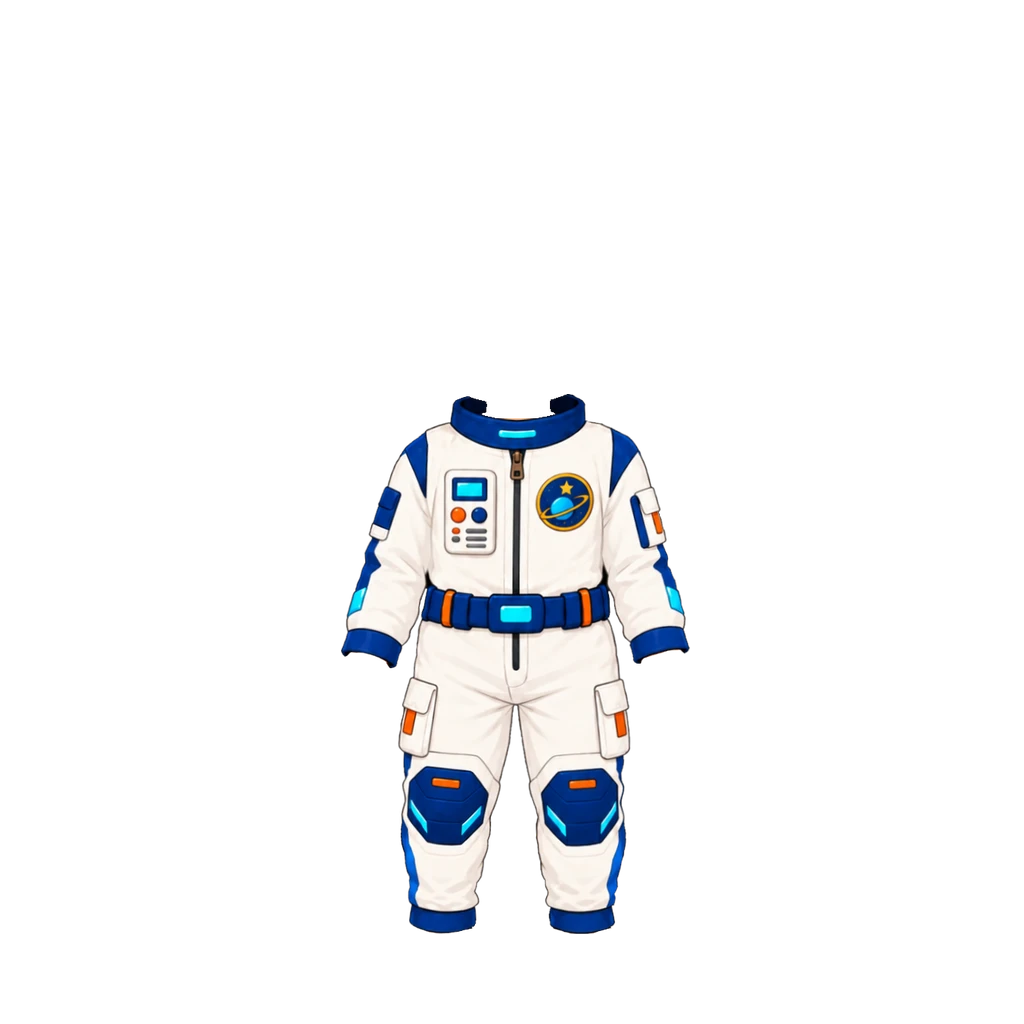
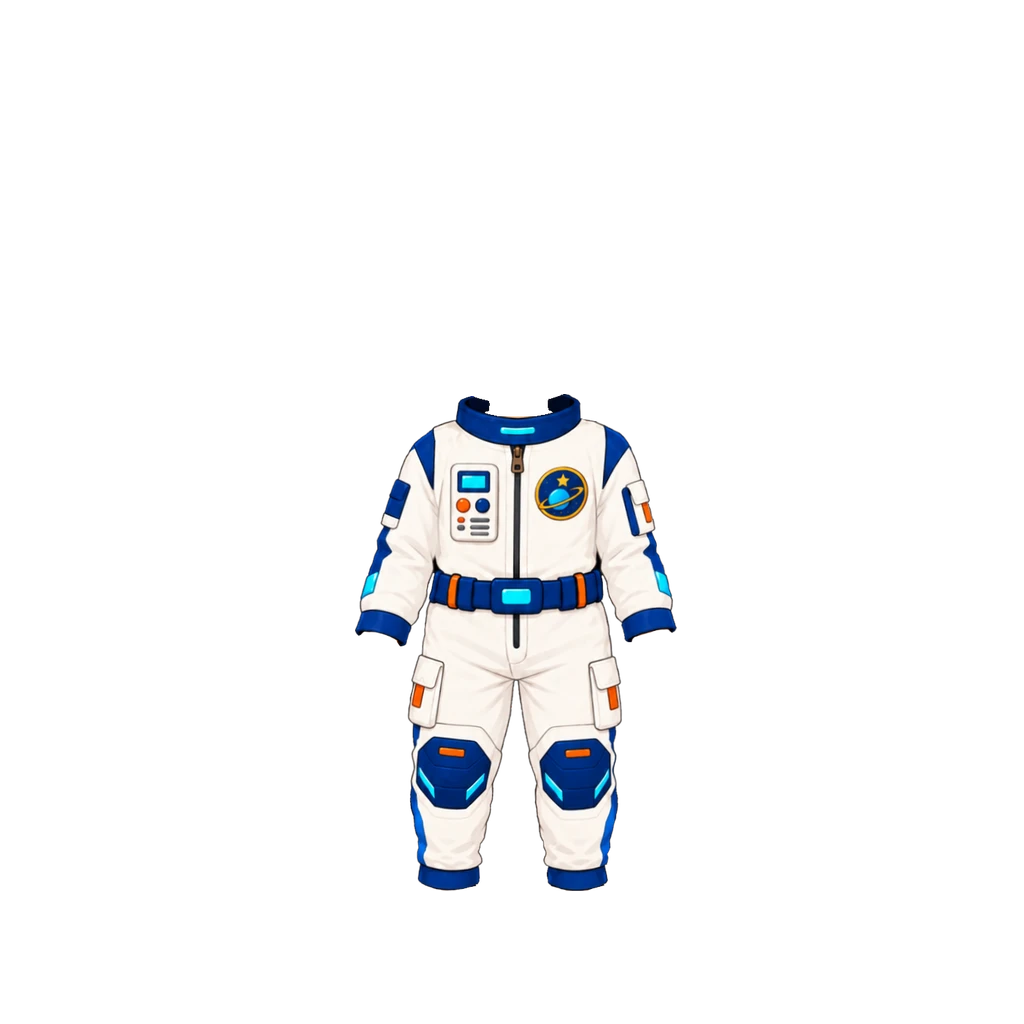
남아 우주복 8% 작게 (#819)
목깃 가운데·위끝을 고정한 채 배율 0.758→0.6974. img ?v=5.

Claude-Session: https://claude.ai/code/session_018maNuYqDfFyRSe9uKpZhPR

Changed region(s): [[0.3125, 0.375, 0.6875, 0.9375]]

diff --git a/src/data/avatarEquipment.js b/src/data/avatarEquipment.js
@@ -286,7 +286,8 @@ export const AVATAR_CATALOG = [
      [2026-10-03] 남아 우주복 새 원화로 교체(같은 디자인, 어깨·소매까지 다 그려진 461×713 한 장, 사용자 원화). 위 탑재값은 옛 판 기록.
      옛 판 자리(배율 0.716 에 상관 0.95 로 겹침)에서는 어깨 위로 베이스 어깨 살·속옷 끈이 비쳐서, 목깃 가운데(원화 x230.5)를 x516 에 두고
      배율 0.758·목깃 위끝 y394(옛 판보다 위로 10)로 올려 어깨를 덮었다. 목깃 안(원화 y0~31, x140~329)의 R≥B 픽셀(턱선·목 살)은 지워
-     베이스 목이 비친다. 바지 끝 y934 — 우주 부츠(z25)의 부츠목을 덮는다. 탑재 상자 (341,394,690,934). img ?v=4. */
+     베이스 목이 비친다. 바지 끝 y934 — 우주 부츠(z25)의 부츠목을 덮는다. 탑재 상자 (341,394,690,934). img ?v=4.
+     [2026-10-03] 사용자 조정 — 8% 작게(배율 0.6974, 목깃 가운데 x516·위끝 y394 고정). 탑재 상자 (355,394,677,891). img ?v=5. */
   /* 해적 옷 — 이 원화도 '옷만 오려 낸 그림'이라 상체를 눈으로 맞췄다(하늘 나들이 옷과 같은 방식).
      긴소매라 소맷부리가 손목에 닿는 배율을 골랐다 — 0.72는 팔뚝이 남고 0.76부터는 손을 덮는다.
      배율 0.74 · 깃 위끝 y372(기본 반팔티 깃과 같은 자리) → 탑재 상자 (350,372)-(674,754). */
@@ -353,7 +354,7 @@ export const AVATAR_CATALOG = [
      배율 0.7104, 목 중심 새 원화 x212.06 → x511.5, 턱 자리 y0 → y356. 목둘레 안(y0~23, x173~255)과 맨 위(y0~5)의 보라 아닌 픽셀을 지웠다.
      옛 판과 겹침 IoU 0.956. 탑재 상자 (361,356,662,887). imgGirl ?v=5.
      [2026-10-03] 사용자 조정 — 왼쪽으로 2(목 중심 x509.5). 탑재 상자 (359,356,660,887). imgGirl ?v=6. */
-  { id: "top_space",      slot: "top",   label: "우주 탐험대",       emoji: "🚀", labelGirl: "별빛 우주인", emojiGirl: "🪐", price:DECOR_PRICE.epic, rarity: "epic", theme: "space",  coversBottom: true, img: "assets/avatar/top/space-suit-boy.webp?v=4", imgGirl: "assets/avatar/top/space-suit-girl.webp?v=6", thumb: "assets/avatar/thumb/top_space.webp?v=4", thumbGirl: "assets/avatar/thumb/top_space-girl.webp?v=5" },
+  { id: "top_space",      slot: "top",   label: "우주 탐험대",       emoji: "🚀", labelGirl: "별빛 우주인", emojiGirl: "🪐", price:DECOR_PRICE.epic, rarity: "epic", theme: "space",  coversBottom: true, img: "assets/avatar/top/space-suit-boy.webp?v=5", imgGirl: "assets/avatar/top/space-suit-girl.webp?v=6", thumb: "assets/avatar/thumb/top_space.webp?v=4", thumbGirl: "assets/avatar/thumb/top_space-girl.webp?v=5" },
 
   /* ── 우주 세트 (남아) — 사용자 원화 2026-09-29 ────────────────────────────
      우주복(top_space)과 같은 원화 세트에서 나온 가방·신발. 둘 다 남아 전용 첫

diff --git a/art-src/README.md b/art-src/README.md
@@ -354,7 +354,7 @@ getBoundingClientRect로 재서 정한다. 2026-08-05 점검에서 이 기준을
 | raincoat-girl-src.webp | **노란 우비 원화 여아 (사용자 원화 2026-10-02)**. 449×443 투명 배경, 노란 우비(흰 둥근 깃·청록 테두리·구름 주머니) + 청록 반바지 한 벌. 위쪽에 목(턱 없음)이 함께 그려져 있다. 원화 목 외곽선 x194.5~258.5(폭 64, 중심 226.5)를 여아 목 중심 x512.5 에, 곧은 목선이 깃 속으로 들어가는 원화 y19 를 여아 y372 에 맞추고 배율 0.69(목 폭이 같아지는 값 — 품이 넓어 수영복은 0.64 부터 다 가려진다, 소매는 손목에서 끝남). 목 살(r−b>70)과 목 옆선은 원화 y6→24 동안 0→1 페이드. 조각 1개, 수영복 비침 0. 탑재 상자 (356,360,666,665) **[2026-10-02 보정]** 사용자 요청으로 반바지만 5퍼센트 키움 — 열마다 노란색 마지막 줄+4 아래(가운데 앞자락 틈 x200~232·y<392 제외)를 반바지로 떼어, 원화 (x221.5, y395) 기준으로 1.05배 키워 원래 반바지 위·우비 아래에 넣었다. 키운 반바지가 원래 반바지 윗선보다 위로 우비 밖에 나오는 부분은 잘랐다. 탑재 상자 (355,360)-(668,669) · ?v=2 | avatar/top/raincoat-girl.webp · thumb/top_raincoat.webp |
 | delivery-girl-outfit-src.webp | **배달부룩 원화 여아 (사용자 원화 2026-10-02)**. 2366×3072 **검은 불투명 배경**(알파 없음)으로 받았다 → 가장자리에서 4-연결로 이어진 검은색(최댓값<34)만 지우고, 옷 둘레 4px 띠는 밝기로 반투명 처리한 뒤 폭 470 으로 줄여 보관(470×613). 하늘색 세일러 블라우스(크림 깃·파란 리본) + 파란 주름치마 원피스, 위쪽에 목(턱 없음)이 함께 그려져 있다. 원화 목 외곽선 x203.5~279(폭 75.5, 중심 241.25)를 여아 목 중심 x512.5 에, 곧은 목선이 끝나는 원화 y15 를 여아 y372 에 맞추고 흰 수영복이 다 가려지는 배율 0.60(목 폭 기준 0.58). 목 살(r−b>70)과 목 옆선은 원화 y4→22 동안 0→1 페이드. 조각 1개, 수영복 비침 1px. 탑재 상자 (368,363,650,731) | avatar/top/delivery-outfit-girl.webp · thumb/top_delivery.webp |
 | sky-girl-tights-src.webp | 위 옷의 **타이츠 있는 판** (알파 상자 (206,707)-(625,1582)). **안 썼다** — 아래 '옷만 오려 낸 원화' 절 참고. 타이츠 아이템을 따로 만들 때 다시 쓸 수 있어 남겨 둔다 | (미탑재) |
-| space-boy-src.webp | **우주복 원화 남아 — 새 판 (사용자 원화 2026-10-03, 이전 판 교체)**. 461×713 투명 배경, 흰 우주복(남색 목깃·어깨·소매·벨트·무릎보호대, 제어판·토성 패치, 주황 포인트) 발목까지 한 벌 — 앞 판(2026-09-29 우주 세트)과 같은 디자인에 어깨·소매가 다 그려졌다. 목깃 안(원화 y0~31, x140~329)의 R≥B 픽셀(턱선·목 살)을 지워 베이스 목이 비치게 했다. 앞 판 자리(배율 0.716, 상관 0.95)에서는 어깨 위로 베이스 어깨·속옷 끈이 비쳐, 목깃 가운데 x230.5 → x516, 배율 0.758, 목깃 위끝 y394 로 올려 어깨를 덮음. 바지 끝 y934 가 우주 부츠의 부츠목을 덮는다. 탑재 상자 (341,394,690,934) · img ?v=4 | avatar/top/space-suit-boy.webp |
+| space-boy-src.webp | **우주복 원화 남아 — 새 판 (사용자 원화 2026-10-03, 이전 판 교체)**. 461×713 투명 배경, 흰 우주복(남색 목깃·어깨·소매·벨트·무릎보호대, 제어판·토성 패치, 주황 포인트) 발목까지 한 벌 — 앞 판(2026-09-29 우주 세트)과 같은 디자인에 어깨·소매가 다 그려졌다. 목깃 안(원화 y0~31, x140~329)의 R≥B 픽셀(턱선·목 살)을 지워 베이스 목이 비치게 했다. 앞 판 자리(배율 0.716, 상관 0.95)에서는 어깨 위로 베이스 어깨·속옷 끈이 비쳐, 목깃 가운데 x230.5 → x516, 배율 0.758, 목깃 위끝 y394 로 올려 어깨를 덮음. 바지 끝 y934 가 우주 부츠의 부츠목을 덮는다. 탑재 상자 (341,394,690,934) · img ?v=4 **[2026-10-03 조정]** 8% 작게(0.6974, 목깃 고정), 상자 (355,394,677,891) · img ?v=5 | avatar/top/space-suit-boy.webp |
 | astronaut-helmet-boy-src.webp | **우주 헬멧 원화 남아 (사용자 원화 2026-09-29, 우주 세트 2/4 — '옷+헬멧' 그림에서 목깃 아래를 잘라 보관)** — 554×480 캔버스, 이미 '쓰고 있는 머리 그림'이라 얼굴 위치를 눈으로 맞출 필요가 없었다. 흰 돔 + 남색 링·귀 스피커 + 하늘색 바이저 하이라이트. hidesHead(베이스 머리 전체를 이 그림이 대신한다). 배율은 우주복과 같은 0.638 — 헬멧 밑단(목깃 최고점, 원화 y632)을 우주복 목깃 위끝(y640)과 같은 자리(y405)에 맞춰서 둘 사이에 틈이나 겹침이 없다. 탑재 상자 (216,2)-(569,308). **[2026-09-30] 사용자가 미리보기로 써 보고 바로 빼 달라고 해서 카탈로그에서 뺐다**(hat_astronaut, RETIRED_ITEM_INFO) — 그림·원본은 CLAUDE.md 6 번과 달리 '교체'가 아니라 '보류'라 그대로 둔다 | avatar/hat/astronaut-helmet-boy.webp |
 | rocket-pack-boy-src.webp | **로켓 가방 원화 남아 (사용자 원화 2026-09-29, 우주 세트 4/4 — '옷+헬멧+가방+신발' 그림에서 오려 냄)** — 142×321 캔버스. 원화가 어깨 너머로 비스듬히 얹힌 로켓이라, 등 슬롯 기본 z(15, 몸통 뒤)로 두면 몸통 실루엣 밖으로 삐져나온 부분만 보이는데 그게 딱 원화가 보여 주는 모습이라 **z를 따로 안 올렸다**(탐험 배낭 어깨끈과 달리 앞으로 끌어올 필요가 없었다). 떼어내는 방법: '같은 세트의 신발까지만 있는 그림'(옷+헬멧+신발, 가방 없음)과 특징점 정합(ORB)한 뒤, 몸통 실루엣을 15px 넉넉히 부풀려 그 밖으로 나온 덩어리만 남겼다(색차가 아니라 실루엣 비교라 몸통색과 겹쳐도 안전). 탑재 배율 0.638 그대로, 세트 정합으로 계산한 상자 (222,39 기준계)를 거쳐 최종 탑재 | avatar/back/rocket-pack-boy.webp |
 | astronaut-boots-boy-src.webp | **우주 부츠 원화 남아 (사용자 원화 2026-09-29, 우주 세트 3/4 — '옷+헬멧+신발' 그림에서 발목 위를 잘라 보관)** — 396×228 캔버스. 흰 부츠 + 남색 발목 스트랩·밑창 + 주황 포인트. 우주복 바지 밑단(y1425)에 발목깃이 물리도록 맞췄다(발목깃 원화 y1295부터 보관). 배율 0.638 · 탑재 상자 (222,39)-(618,357) | avatar/shoes/astronaut-boots-boy.webp |
